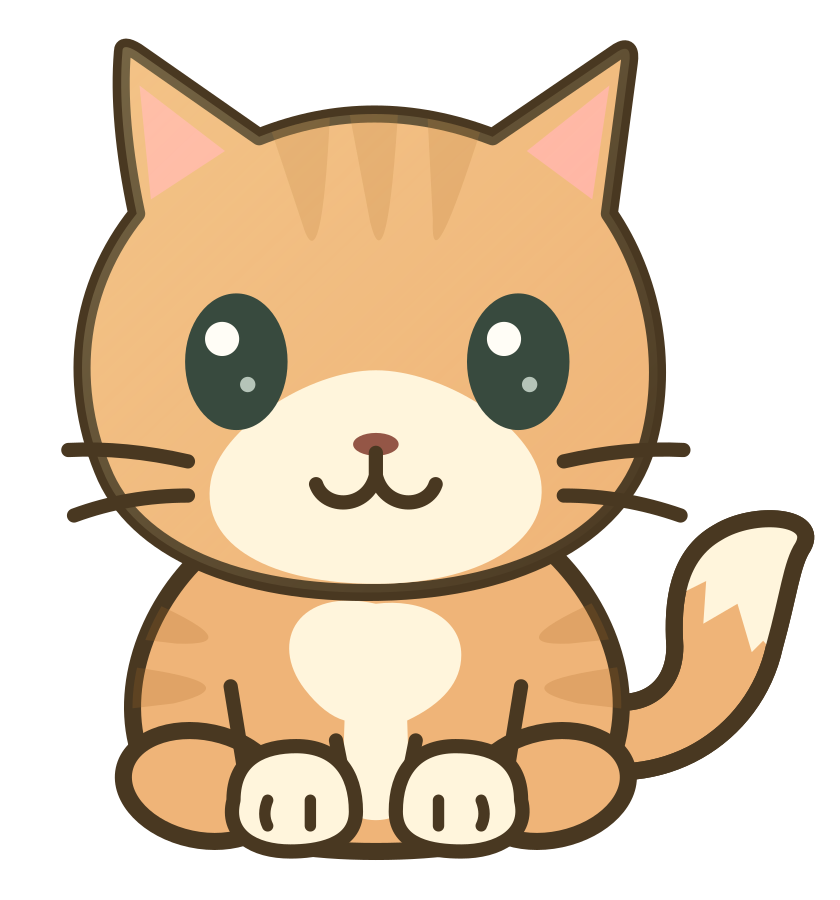
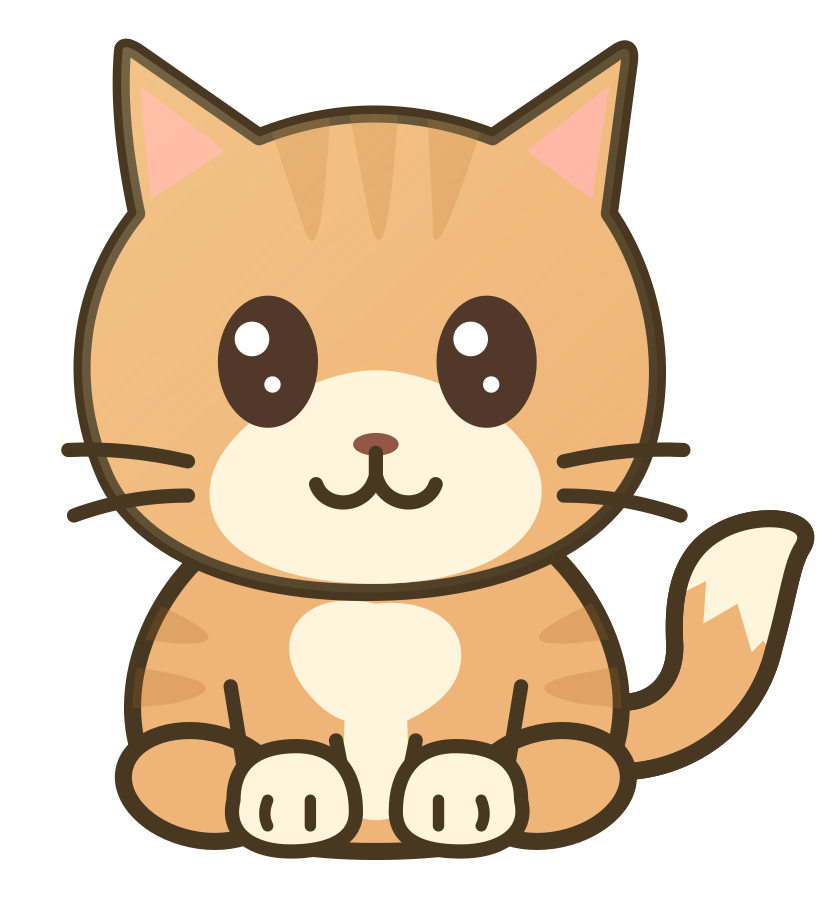
Use existing dog eye artwork for cats without changing dog designs (v1.5.27)

Changed region(s): [[0.4952, 0.3111, 0.681, 0.4978], [0.2167, 0.3111, 0.4024, 0.4978]]

diff --git a/pet-cat-art.js b/pet-cat-art.js
@@ -1,15 +1,6 @@
+import {renderCompanionEyes} from './pet-companion-eyes.js?v=1.5.27';
 // Approved cat-base.svg, rendered directly without legacy redraw observers.
 // Prefix SVG references per instance so main, chat and admin previews can coexist.
-const eye = (style) => [78,177].map((x,i)=> {
- const mirror = i ? -1 : 1;
- if(style==='smile') return `<path d="M${x-15} 123 Q${x} 100 ${x+15} 123" fill="none" stroke="#384a3e" stroke-width="6" stroke-linecap="round"/>`;
- if(style==='sleepy') return `<path d="M${x-15} 118 Q${x} 132 ${x+15} 118" fill="none" stroke="#384a3e" stroke-width="5" stroke-linecap="round"/>`;
- if(style==='gentle') return `<g transform="rotate(${mirror*-18} ${x} 119)"><ellipse cx="${x}" cy="119" rx="15" ry="18" fill="#384a3e"/><circle cx="${x-4}" cy="113" r="5" fill="#fffdf6"/></g>`;
- if(style==='watery') return `<ellipse cx="${x}" cy="119" rx="19" ry="24" fill="#384a3e"/><ellipse cx="${x}" cy="132" rx="12" ry="6" fill="#9ebfbb"/><circle cx="${x-6}" cy="110" r="7" fill="#fffdf6"/><circle cx="${x+7}" cy="121" r="4" fill="#fffdf6"/>`;
- if(style==='sparkle') return `<ellipse cx="${x}" cy="119" rx="18" ry="24" fill="#384a3e"/><path d="M${x-3} 101 L${x} 110 L${x+9} 113 L${x} 116 L${x-3} 125 L${x-6} 116 L${x-15} 113 L${x-6} 110Z" fill="#fffdf6"/><circle cx="${x+7}" cy="131" r="4" fill="#fffdf6"/>`;
- return `<ellipse cx="${x}" cy="119" rx="18" ry="24" fill="#384a3e"/><circle cx="${x-5}" cy="111" r="6" fill="#fffdf6"/><circle cx="${x+4}" cy="127" r="2.7" fill="#b5c4b8"/>`;
-}).join('');
-
 const ART="<defs>\n <linearGradient id=\"__CAT_ID__-cat-fur-light\" x1=\"0\" y1=\"0\" x2=\"1\" y2=\"1\"><stop stop-color=\"#fff0b3\" stop-opacity=\".25\"/><stop offset=\"1\" stop-color=\"#fff0b3\" stop-opacity=\"0\"/></linearGradient>\n <clipPath id=\"__CAT_ID__-cat-tail-clip\"><path d=\"M193 260 C227 271 260 251 267 219 C272 201 273 190 277 184 C283 173 260 171 247 179 C233 187 231 203 232 219 C232 235 219 242 205 237 Z\"/></clipPath>\n <clipPath id=\"__CAT_ID__-cat-head-clip\"><path d=\"M43 67 Q36 34 38 10 Q38 7 43 10 L86 40 Q126 24 168 40 L212 10 Q217 7 216 14 L209 67 C224 89 230 119 223 146 C215 179 179 199 128 200 C79 201 42 185 31 157 C18 125 23 92 43 67Z\"/></clipPath>\n <clipPath id=\"__CAT_ID__-cat-body-clip\"><path d=\"M73 181 C50 198 37 228 43 253 C48 278 80 291 127 291 C173 291 205 279 211 255 C219 228 204 198 184 182Z\"/></clipPath>\n</defs>\n<g stroke=\"#493821\" stroke-width=\"6\" stroke-linecap=\"round\" stroke-linejoin=\"round\">\n <g id=\"__CAT_ID__-cat-tail\"><path fill=\"__CAT_COLOR__\" d=\"M193 260 C227 271 260 251 267 219 C272 201 273 190 277 184 C283 173 260 171 247 179 C233 187 231 203 232 219 C232 235 219 242 205 237 Z\"/><path d=\"M233 169 H283 V211 L270 225 L263 217 L259 221 L254 204 L242 211 L243 196 L231 202Z\" fill=\"#fff5dc\" stroke=\"none\" clip-path=\"url(#__CAT_ID__-cat-tail-clip)\"/><path d=\"M193 260 C227 271 260 251 267 219 C272 201 273 190 277 184 C283 173 260 171 247 179 C233 187 231 203 232 219 C232 235 219 242 205 237 Z\" fill=\"none\"/></g>\n <g id=\"__CAT_ID__-cat-body\"><path fill=\"__CAT_COLOR__\" d=\"M73 181 C50 198 37 228 43 253 C48 278 80 291 127 291 C173 291 205 279 211 255 C219 228 204 198 184 182Z\"/>\n <g clip-path=\"url(#__CAT_ID__-cat-body-clip)\" fill=\"#a96928\" fill-opacity=\".22\" stroke=\"none\"><path d=\"M43 201 Q85 219 57 218 L40 216Z M40 226 Q85 232 56 239 L39 241Z M209 201 Q168 219 195 218 L214 216Z M214 226 Q168 232 198 239 L215 241Z\"/></g>\n <path id=\"__CAT_ID__-cat-chest\" d=\"M127 204 C100 198 89 217 102 234 Q109 243 116 245 L115 276 Q127 284 139 276 L138 245 Q157 236 157 222 C157 209 143 202 127 204Z\" fill=\"#fff5dc\" stroke=\"none\"/>\n </g>\n <g id=\"__CAT_ID__-cat-head\"><path fill=\"__CAT_COLOR__\" d=\"M43 67 Q36 34 38 10 Q38 7 43 10 L86 40 Q126 24 168 40 L212 10 Q217 7 216 14 L209 67 C224 89 230 119 223 146 C215 179 179 199 128 200 C79 201 42 185 31 157 C18 125 23 92 43 67Z\"/>\n <path d=\"M48 62 L44 22 L74 45Z M180 45 L209 22 L203 62Z\" fill=\"#ffb0a4\" stroke=\"none\"/>\n <g clip-path=\"url(#__CAT_ID__-cat-head-clip)\" fill=\"#ae6d25\" fill-opacity=\".22\" stroke=\"none\"><path d=\"M88 31 L111 30 Q108 94 101 70Z M117 28 H135 Q131 94 125 70Z M145 30 L165 34 Q146 94 147 69Z\"/></g>\n <path d=\"M43 67 Q36 34 38 10 Q38 7 43 10 L86 40 Q126 24 168 40 L212 10 Q217 7 216 14 L209 67 C224 89 230 119 223 146 C215 179 179 199 128 200 C79 201 42 185 31 157 C18 125 23 92 43 67Z\" fill=\"url(#__CAT_ID__-cat-fur-light)\" stroke=\"none\"/>\n <path id=\"__CAT_ID__-cat-muzzle\" d=\"M127 122 C103 122 72 143 69 161 C65 184 91 197 127 197 C162 197 188 183 185 161 C182 141 150 122 127 122Z\" fill=\"#fff5dc\" stroke=\"none\"/>\n </g>\n <g data-pet-eyes=\"1\" data-cat-eye-style=\"__EYE_STYLE__\" stroke=\"none\">__CAT_EYES__</g>\n <g id=\"__CAT_ID__-cat-face-fixed\"><ellipse cx=\"127\" cy=\"148\" rx=\"8\" ry=\"4\" fill=\"#945646\" stroke=\"none\"/><path d=\"M127 151 V159 M127 159 C124 171 109 171 106 162 M127 159 C130 171 145 171 148 162\" fill=\"none\" stroke-width=\"5\"/><path d=\"M61 154 Q39 149 19 150 M61 166 Q40 166 21 173 M193 154 Q215 149 235 150 M193 166 Q214 166 234 173\" fill=\"none\" stroke-width=\"5\"/></g>\n <g id=\"__CAT_ID__-cat-paws\"><ellipse fill=\"__CAT_COLOR__\" cx=\"66\" cy=\"268\" rx=\"28\" ry=\"19\" transform=\"rotate(12 66 268)\"/><ellipse fill=\"__CAT_COLOR__\" cx=\"188\" cy=\"268\" rx=\"28\" ry=\"19\" transform=\"rotate(-12 188 268)\"/>\n <path d=\"M76 233 L82 270 M178 233 L172 270 M113 252 L117 272 M141 252 L137 272\" fill=\"none\" stroke-width=\"5\"/>\n <path d=\"M77 273 C77 258 88 254 99 254 C113 254 120 263 120 277 C120 289 106 291 97 291 C84 291 74 285 77 273Z\" fill=\"#fff5dc\" stroke-width=\"5\"/>\n <path d=\"M134 277 C134 263 141 254 155 254 C167 254 178 258 178 273 C181 285 170 291 157 291 C147 291 134 289 134 277Z\" fill=\"#fff5dc\" stroke-width=\"5\"/>\n <path d=\"M89 273 Q87 278 89 282 M104 273 V282 M149 273 V282 M164 273 Q166 278 164 282\" fill=\"none\" stroke-width=\"4\"/>\n </g>\n</g>\n";
 const COLORS=new Set(['#f5d99b','#f3b5c4','#a4cce9','#a9d9bc','#c6b8e3','#efb478']);
 const EYES=new Set(['round','gentle','watery','smile','sleepy','sparkle']);
@@ -18,6 +9,6 @@ export function renderCatArt(color,eyeStyle){
  color=COLORS.has(color)?color:'#f5d99b';
  eyeStyle=EYES.has(eyeStyle)?eyeStyle:'round';
  const id='pet-cat-'+(++instance);
- const art=ART.replaceAll('__CAT_ID__',id).replaceAll('__CAT_COLOR__',color).replaceAll('__EYE_STYLE__',eyeStyle).replace('__CAT_EYES__',eye(eyeStyle));
+ const art=ART.replaceAll('__CAT_ID__',id).replaceAll('__CAT_COLOR__',color).replaceAll('__EYE_STYLE__',eyeStyle).replace('__CAT_EYES__','<g transform="translate(-64.5 -50.6) scale(1.6)">'+renderCompanionEyes(eyeStyle)+'</g>');
  return '<g data-pet-cat-art="editable" transform="translate(40 31) scale(.63)">'+art+'</g>';
 }

diff --git a/pet-art.js b/pet-art.js
@@ -1,7 +1,7 @@
-import {renderCatArt} from './pet-cat-art.js?v=1.5.26';
-import {renderSparkleEyes} from './pet-eye-art.js?v=1.5.26';
-import {renderDogArt} from './pet-dog-art.js?v=1.5.26';
-if(typeof window!=='undefined')import('./nickname-profile.js?v=1.5.26');
+import {renderCatArt} from './pet-cat-art.js?v=1.5.27';
+import {renderSparkleEyes} from './pet-eye-art.js?v=1.5.27';
+import {renderDogArt} from './pet-dog-art.js?v=1.5.27';
+if(typeof window!=='undefined')import('./nickname-profile.js?v=1.5.27');
 import {OPTIONS,normalizeAppearance,equippedLayers} from './pet-model.js';
 
 const outline='#40564e';
@@ -132,7 +132,7 @@ export function renderPetSVG(value,shop={},stage=''){
 
 export function appearanceLabel(value){const a=resolvedAppearance(value);const color=OPTIONS.bodyColor.find(x=>x.id===a.bodyColor)?.label||a.bodyColor;return [SPECIES_LABELS[a.species]||a.species,color,EYE_LABELS[a.eyeStyle]||'まんまる',BACKGROUND_LABELS[a.baseBackground]||'おうち'].join('・');}
 
-if(typeof window!=='undefined')queueMicrotask(()=>import('./pet-shop.js?v=1.5.26').then(()=>import('./pet-enhancements.js?v=1.5.7')).catch(error=>console.error('Pet shop failed to load',error)));
+if(typeof window!=='undefined')queueMicrotask(()=>import('./pet-shop.js?v=1.5.27').then(()=>import('./pet-enhancements.js?v=1.5.7')).catch(error=>console.error('Pet shop failed to load',error)));
 function renderMysterySVG(shop){const l=equippedLayers(shop);return '<svg xmlns="http://www.w3.org/2000/svg" viewBox="0 0 240 240" data-pet-stage="mystery" aria-label="ふわふわの謎の生き物"><rect width="240" height="240" rx="32" fill="#e3f0fc"/>'+l.backgrounds+'<ellipse cx="120" cy="207" rx="58" ry="8" fill="#40564e" opacity=".1"/><g class="pet-jump-layer"><g class="pet-character"><g><path d="M62 169 Q36 153 52 132 Q33 108 58 94 Q52 66 82 65 Q94 39 116 57 Q139 36 155 61 Q184 54 188 83 Q215 95 196 120 Q215 146 193 161 Q192 191 163 190 Q146 215 122 199 Q96 215 80 193 Q55 196 62 169Z" fill="#fff8ed" stroke="#667b79" stroke-width="4"/><g data-shared-legacy-eyes data-pet-eyes="1" fill="#40564e"><ellipse cx="96" cy="122" rx="8" ry="11"/><ellipse cx="145" cy="122" rx="8" ry="11"/><g fill="white"><circle cx="94" cy="118" r="3"/><circle cx="143" cy="118" r="3"/></g></g><g fill="#f3b5c4" opacity=".7"><ellipse cx="79" cy="140" rx="12" ry="7"/><ellipse cx="162" cy="140" rx="12" ry="7"/></g><path d="M110 144 Q120 155 131 144" fill="none" stroke="#667b79" stroke-width="3" stroke-linecap="round"/></g>'+l.accessories+'</g></g>'+l.effects+'</svg>';}
 
 // Keep the render key on the SVG so cloned markup and module copies share it.

diff --git a/pet-dog-art.js b/pet-dog-art.js
@@ -1,17 +1,9 @@
-import {renderSparkleEyes} from './pet-eye-art.js?v=1.5.26';
+import {renderCompanionEyes} from './pet-companion-eyes.js?v=1.5.27';
 // Editable vector reconstruction of dog_pet_final.png. No raster filters or DOM redraws.
 // Colors and eye styles come from normalized appearance; shop and sleep own their layers.
 export function renderDogArt(color,eyeStyle){
  const ink='#513829',cream='#fff7e9';
- const shine=(x,y)=>`<g fill="white" stroke="none"><circle cx="${x-3.5}" cy="${y-5}" r="3.8"/><circle cx="${x+1}" cy="${y+5}" r="1.8"/></g>`;
- const eyes=eyeStyle==='sparkle'?renderSparkleEyes(96,144,106):[96,144].map(x=>{
-  if(eyeStyle==='smile')return `<path d="M${x-9} 111 Q${x} 94 ${x+9} 111" fill="none" stroke="${ink}" stroke-width="4" stroke-linecap="round"/>`;
-  if(eyeStyle==='sleepy')return `<path d="M${x-9} 108 Q${x} 117 ${x+9} 108" fill="none" stroke="${ink}" stroke-width="4" stroke-linecap="round"/>`;
-  const angle=eyeStyle==='gentle'?(x===96?14:-14):0;
-  const eye=`<ellipse cx="${x}" cy="106" rx="11" ry="${eyeStyle==='watery'?16:14.5}" fill="${ink}" stroke="none"/>${shine(x,106)}`;
-  const tears=eyeStyle==='watery'?`<ellipse cx="${x+5}" cy="114" rx="3" ry="4.5" fill="#b7e6ff" stroke="none"/>`:'';
-  return `<g transform="rotate(${angle} ${x} 106)">${eye}${tears}</g>`;
- }).join('');
+ const eyes=renderCompanionEyes(eyeStyle);
  return `<g data-pet-dog-art="editable" stroke="${ink}" stroke-width="4.3" stroke-linecap="round" stroke-linejoin="round">
  <path d="M158 177 Q192 166 192 141 Q198 130 205 143 Q219 168 201 187 Q193 200 164 197Z" fill="${color}"/>
  <path d="M192 141 Q198 130 205 143 Q211 153 207 162 Q199 169 193 165 Q202 157 199 151 Q195 156 187 154Z" fill="${cream}" stroke="none"/>

diff --git a/index.html b/index.html
@@ -121,7 +121,7 @@ h1{font-size:clamp(28px,4.2vw,40px);letter-spacing:.02em;margin:6px 0 8px;line-h
 <body>
 <main class="home">
   <div class="topbar">
-    <div class="logo" data-version-badge-installed="1">もんすたでぃ<span class="app-version-badge" aria-label="version 1.5.26">ver1.5.26</span></div>
+    <div class="logo" data-version-badge-installed="1">もんすたでぃ<span class="app-version-badge" aria-label="version 1.5.27">ver1.5.27</span></div>
     <div class="auth-area">
       <button id="loginBtn" class="auth-btn" type="button" disabled>
         <span id="authDot" class="auth-dot busy"></span><span id="authLabel">認証準備中…</span>
@@ -296,7 +296,7 @@ import {
 
 import {growthPatch,hatchPatch} from './pet-growth.js';
 import {loginProgress,readyToHatch,hasPet,validAppearance,normalizePetName,validPetName} from './pet-model.js';
-import {renderPetSVG,renderPetVisual,appearanceLabel} from './pet-art.js?v=1.5.26';
+import {renderPetSVG,renderPetVisual,appearanceLabel} from './pet-art.js?v=1.5.27';
 import {createPetMaker,createPetNameDialog} from './pet-maker.js';
 
 const firebaseConfig = {
@@ -850,6 +850,6 @@ window.addEventListener('online',()=>{if(!petSyncRetry.hidden)retryPetSync();});
 window.addEventListener('focus',()=>{if(!petSyncRetry.hidden)retryPetSync();});
 </script>
 
-<script type="module" src='./version-badge.js?v=1.5.26'></script>
+<script type="module" src='./version-badge.js?v=1.5.27'></script>
 </body>
 </html>

diff --git a/tests/pet-companion-eyes.test.js b/tests/pet-companion-eyes.test.js
@@ -1,0 +1,17 @@
+import test from 'node:test';
+import assert from 'node:assert/strict';
+import {createHash} from 'node:crypto';
+import {renderDogArt} from '../pet-dog-art.js';
+import {renderCatArt} from '../pet-cat-art.js';
+import {renderCompanionEyes} from '../pet-companion-eyes.js';
[1 lines of base64/hex data omitted]
+test('all six dog designs remain byte-for-byte identical to the approved dog',()=>{
+ for(const [style,hash] of Object.entries(originalDogHashes))assert.equal(createHash('sha256').update(renderDogArt('#efb478',style)).digest('hex'),hash,style);
+});
+test('cat and dog use identical eye markup for every style',()=>{
+ for(const style of Object.keys(originalDogHashes)){
+  const eyes=renderCompanionEyes(style);
+  assert.ok(renderDogArt('#efb478',style).includes(eyes),style+' dog');
+  assert.ok(renderCatArt('#efb478',style).includes(eyes),style+' cat');
+ }
+});

diff --git a/tests/pet-sparkle-art.test.js b/tests/pet-sparkle-art.test.js
@@ -8,13 +8,8 @@ test('selectable animals and legacy saved sparkle eyes retain their intended des
  for(const species of ['cat','dog','bird','hamster','panda','penguin'])for(const bodyColor of OPTIONS.bodyColor){
   for(const appearance of [{...DEFAULT_APPEARANCE,species,bodyColor:bodyColor.id,eyeStyle:'sparkle'},{...DEFAULT_APPEARANCE,species,bodyColor:bodyColor.id,eyes:'sparkle'}]){
    const before=JSON.stringify(appearance),svg=renderPetSVG(appearance);
-   if(species==='cat'){
-    assert.match(svg,/data-cat-eye-style="sparkle"/);
-    assert.equal((svg.match(/fill="#fffdf6"/g)||[]).length,4,'approved cat eyes have two white stars and two highlights');
-   }else{
-    assert.equal((svg.match(/data-sparkle-eye="soft-star"/g)||[]).length,2,species);
-    assert.ok(svg.includes(species==='dog'?renderSparkleEyes(96,144,106):renderSparkleEyes(94,146,114)),species);
-   }
+   assert.equal((svg.match(/data-sparkle-eye="soft-star"/g)||[]).length,2,species);
+   assert.ok(svg.includes(['cat','dog'].includes(species)?renderSparkleEyes(96,144,106):renderSparkleEyes(94,146,114)),species);
    assert.equal(JSON.stringify(appearance),before);
   }
   for(const eyeStyle of ['round','gentle','watery','smile','sleepy'])assert.doesNotMatch(renderPetSVG({...DEFAULT_APPEARANCE,species,eyeStyle}),/data-sparkle-eye/);

diff --git a/pet-companion-eyes.js b/pet-companion-eyes.js
@@ -1,0 +1,15 @@
+import {renderSparkleEyes} from './pet-eye-art.js?v=1.5.27';
+// Preserve the existing dog eye artwork for both companions.
+export function renderCompanionEyes(eyeStyle){
+ const ink='#513829';
+ const shine=(x,y)=>`<g fill="white" stroke="none"><circle cx="${x-3.5}" cy="${y-5}" r="3.8"/><circle cx="${x+1}" cy="${y+5}" r="1.8"/></g>`;
+ const eyes=eyeStyle==='sparkle'?renderSparkleEyes(96,144,106):[96,144].map(x=>{
+  if(eyeStyle==='smile')return `<path d="M${x-9} 111 Q${x} 94 ${x+9} 111" fill="none" stroke="${ink}" stroke-width="4" stroke-linecap="round"/>`;
+  if(eyeStyle==='sleepy')return `<path d="M${x-9} 108 Q${x} 117 ${x+9} 108" fill="none" stroke="${ink}" stroke-width="4" stroke-linecap="round"/>`;
+  const angle=eyeStyle==='gentle'?(x===96?14:-14):0;
+  const eye=`<ellipse cx="${x}" cy="106" rx="11" ry="${eyeStyle==='watery'?16:14.5}" fill="${ink}" stroke="none"/>${shine(x,106)}`;
+  const tears=eyeStyle==='watery'?`<ellipse cx="${x+5}" cy="114" rx="3" ry="4.5" fill="#b7e6ff" stroke="none"/>`:'';
+  return `<g transform="rotate(${angle} ${x} 106)">${eye}${tears}</g>`;
+ }).join('');
+ return eyes;
+}

diff --git a/version-badge.js b/version-badge.js
@@ -3,7 +3,7 @@ import './pet-motion-polish.js';
 import './pet-sleep-mode.js?v=1.5.7-touch';
 import './pet-sleep-visibility.js';
 import './pet-grumpy-cleanup-v139.js';
-import './pet-lifecycle-v141.js?v=1.5.26';
+import './pet-lifecycle-v141.js?v=1.5.27';
 import './pet-egg-ui-v141.js';
 import './pet-six-species-v141.js';
 import './pet-eye-emphasis-v144.js';
@@ -12,9 +12,9 @@ import './pet-cat-dog-v1425.js?v=1.5.7';
 // Sleep mode now owns original and cloned eye visibility together.
 import './pet-lion-v149.js?v=1.4.12';
 
-queueMicrotask(()=>import('./pet-admin-panel.js?v=1.5.26').then(()=>import('./pet-admin-limit-v1420.js?v=1.4.28')).catch(error=>console.error('Admin pet panel failed to load',error)));
+queueMicrotask(()=>import('./pet-admin-panel.js?v=1.5.27').then(()=>import('./pet-admin-limit-v1420.js?v=1.4.28')).catch(error=>console.error('Admin pet panel failed to load',error)));
 
-const APP_VERSION='1.5.26';
+const APP_VERSION='1.5.27';
 
 function installVersionBadge(){
   const logo=document.querySelector('.logo');

diff --git a/pet-lifecycle-v141.js b/pet-lifecycle-v141.js
@@ -4,7 +4,7 @@ import {getFirestore,doc,onSnapshot,runTransaction,serverTimestamp} from "https:
 import {hasPet,normalizePetName,validPetName} from './pet-model.js';
 
 import {growthPatch,hatchDay} from './pet-growth.js';
-import {renderPetVisual} from './pet-art.js?v=1.5.26';
+import {renderPetVisual} from './pet-art.js?v=1.5.27';
 import {chanceFor,shouldDepart} from './pet-lifetime-model.js?v=1.5.9';
 const LIFECYCLE_VERSION=141;
 const MAX_MEMORIES=40;
@@ -140,7 +140,7 @@ function ensureMemoriesDialog(){
 }
 
 async function svgFor(appearance,shop,stage='adult'){
-  const mod=await import('./pet-art.js?v=1.5.26');return mod.renderPetSVG(appearance,shop,stage);
+  const mod=await import('./pet-art.js?v=1.5.27');return mod.renderPetSVG(appearance,shop,stage);
 }
 async function openMemories(){
   const memories=memoriesOf(currentData);if(!memories.length)return;

diff --git a/assets/pets/cat/index.html b/assets/pets/cat/index.html
@@ -17,7 +17,7 @@ body{margin:0;background:#fcf8ef;color:#493821;font:16px/1.7 system-ui,sans-seri
 <p><a href="cat-base.svg">SVG</a> ／ <a href="cat-preview.png">PNG</a> ／ <a href="../../../">もんすたでぃへ</a></p>
 </main>
 <script type="module">
-import {renderCatArt} from '../../../pet-cat-art.js?v=1.5.26';
+import {renderCatArt} from '../../../pet-cat-art.js?v=1.5.27';
 const colors={cream:'#f5d99b',pink:'#f3b5c4',blue:'#a4cce9',mint:'#a9d9bc',lavender:'#c6b8e3',orange:'#efb478'};
 const color=document.getElementById('color'),eyes=document.getElementById('eyes'),variants=document.getElementById('variants');
 const art=style=>'<svg xmlns="http://www.w3.org/2000/svg" viewBox="20 25 210 200" aria-hidden="true">'+renderCatArt(colors[color.value],style)+'</svg>';

diff --git a/pet-shop.js b/pet-shop.js
@@ -6,7 +6,7 @@ import { getApps, getApp } from "https://www.gstatic.com/firebasejs/13.0.0/fireb
 import { getAuth, onAuthStateChanged } from "https://www.gstatic.com/firebasejs/13.0.0/firebase-auth.js";
 import { getFirestore, doc, onSnapshot, runTransaction, serverTimestamp } from "https://www.gstatic.com/firebasejs/13.0.0/firebase-firestore.js";
 import { OPTIONS, ACCESSORY_ITEM_SLOTS, hasPet, normalizeAppearance, normalizePetName, validPetName } from './pet-model.js';
-import { renderPetSVG, renderPetVisual, appearanceLabel } from './pet-art.js?v=1.5.26';
+import { renderPetSVG, renderPetVisual, appearanceLabel } from './pet-art.js?v=1.5.27';
 
 let wasteSaving=false,cleaningWaste=false;
 const ITEMS = Object.freeze([

diff --git a/pet-admin-panel.js b/pet-admin-panel.js
@@ -2,7 +2,7 @@ import {getApps,getApp} from "https://www.gstatic.com/firebasejs/13.0.0/firebase
 import {getAuth,onAuthStateChanged} from "https://www.gstatic.com/firebasejs/13.0.0/firebase-auth.js";
 import {getFirestore,doc,getDoc,runTransaction,serverTimestamp} from "https://www.gstatic.com/firebasejs/13.0.0/firebase-firestore.js";
 import {OPTIONS,normalizeAppearance,validAppearance} from './pet-model.js';
-import {renderPetSVG} from './pet-art.js?v=1.5.26';
+import {renderPetSVG} from './pet-art.js?v=1.5.27';
 
 const ADMIN_API='https://task-quest.onrender.com/api/admin/session';
 const OFFICIAL_SPECIES=['cat','dog','bird','hamster','panda','penguin'];
